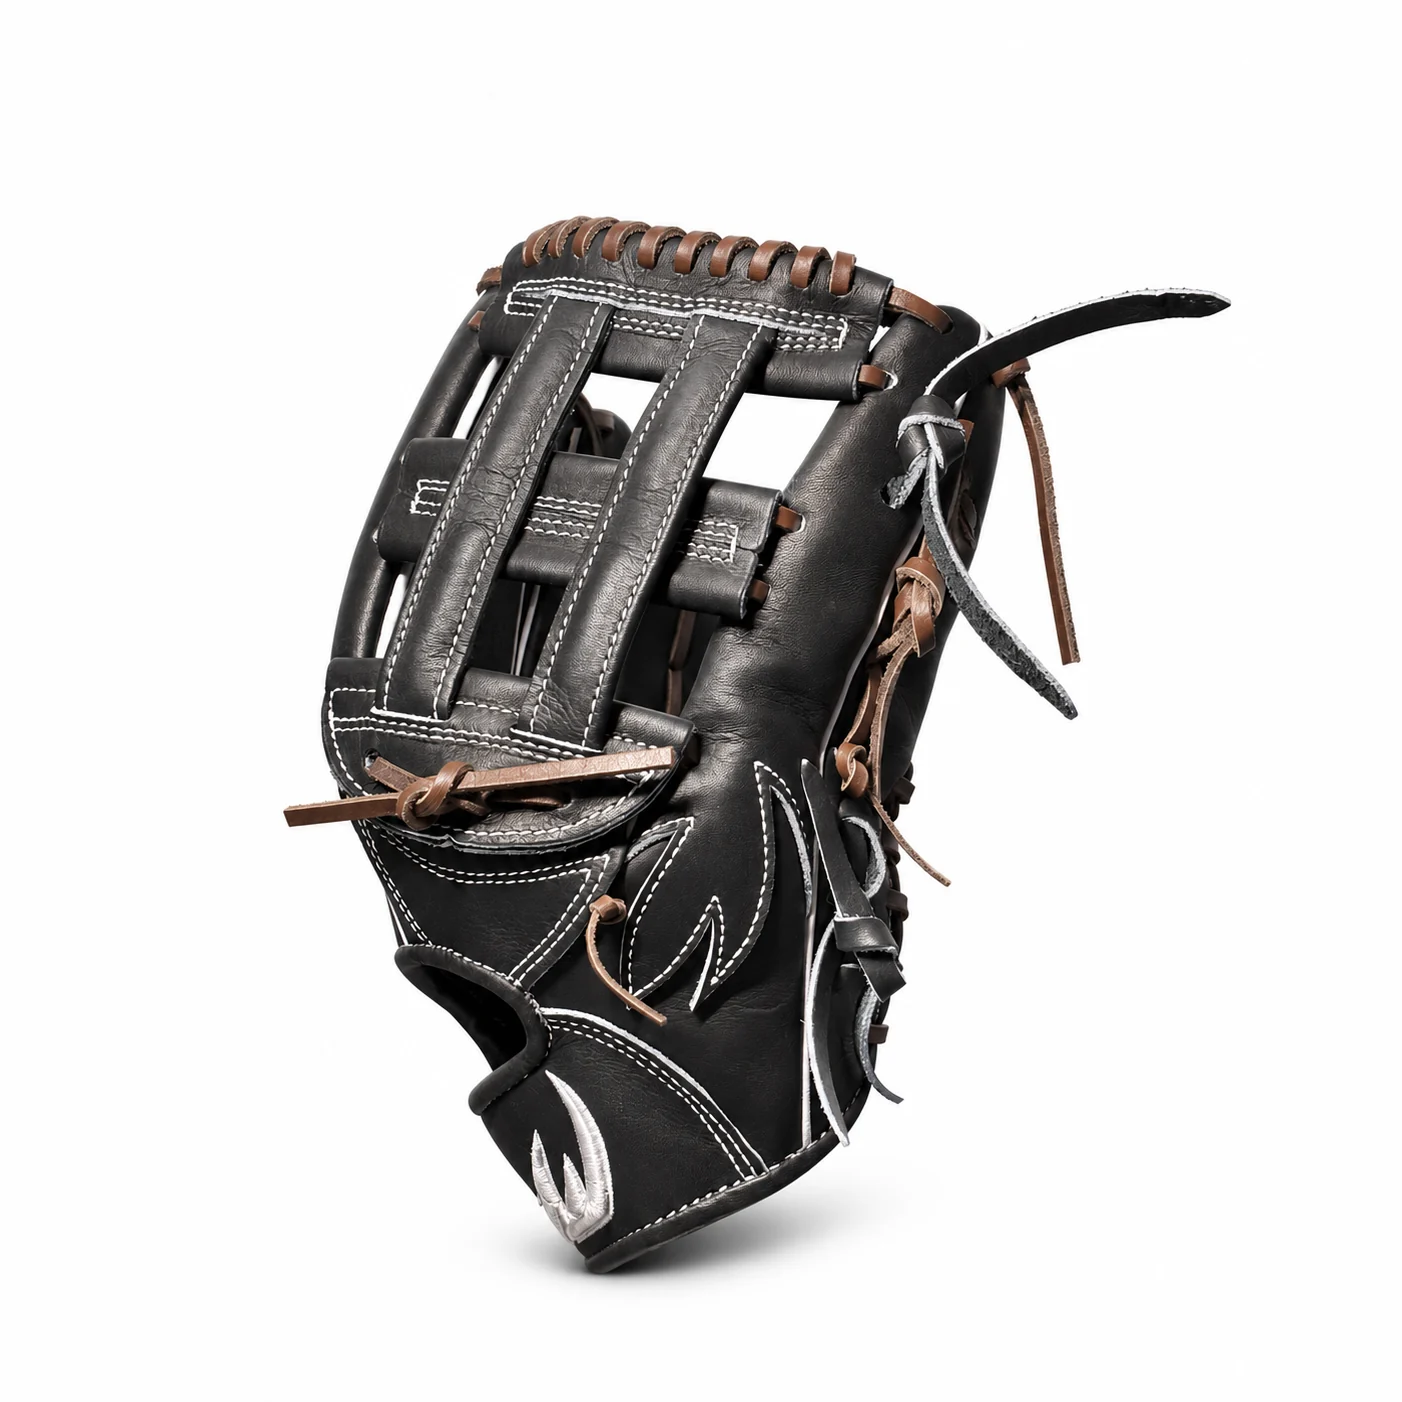
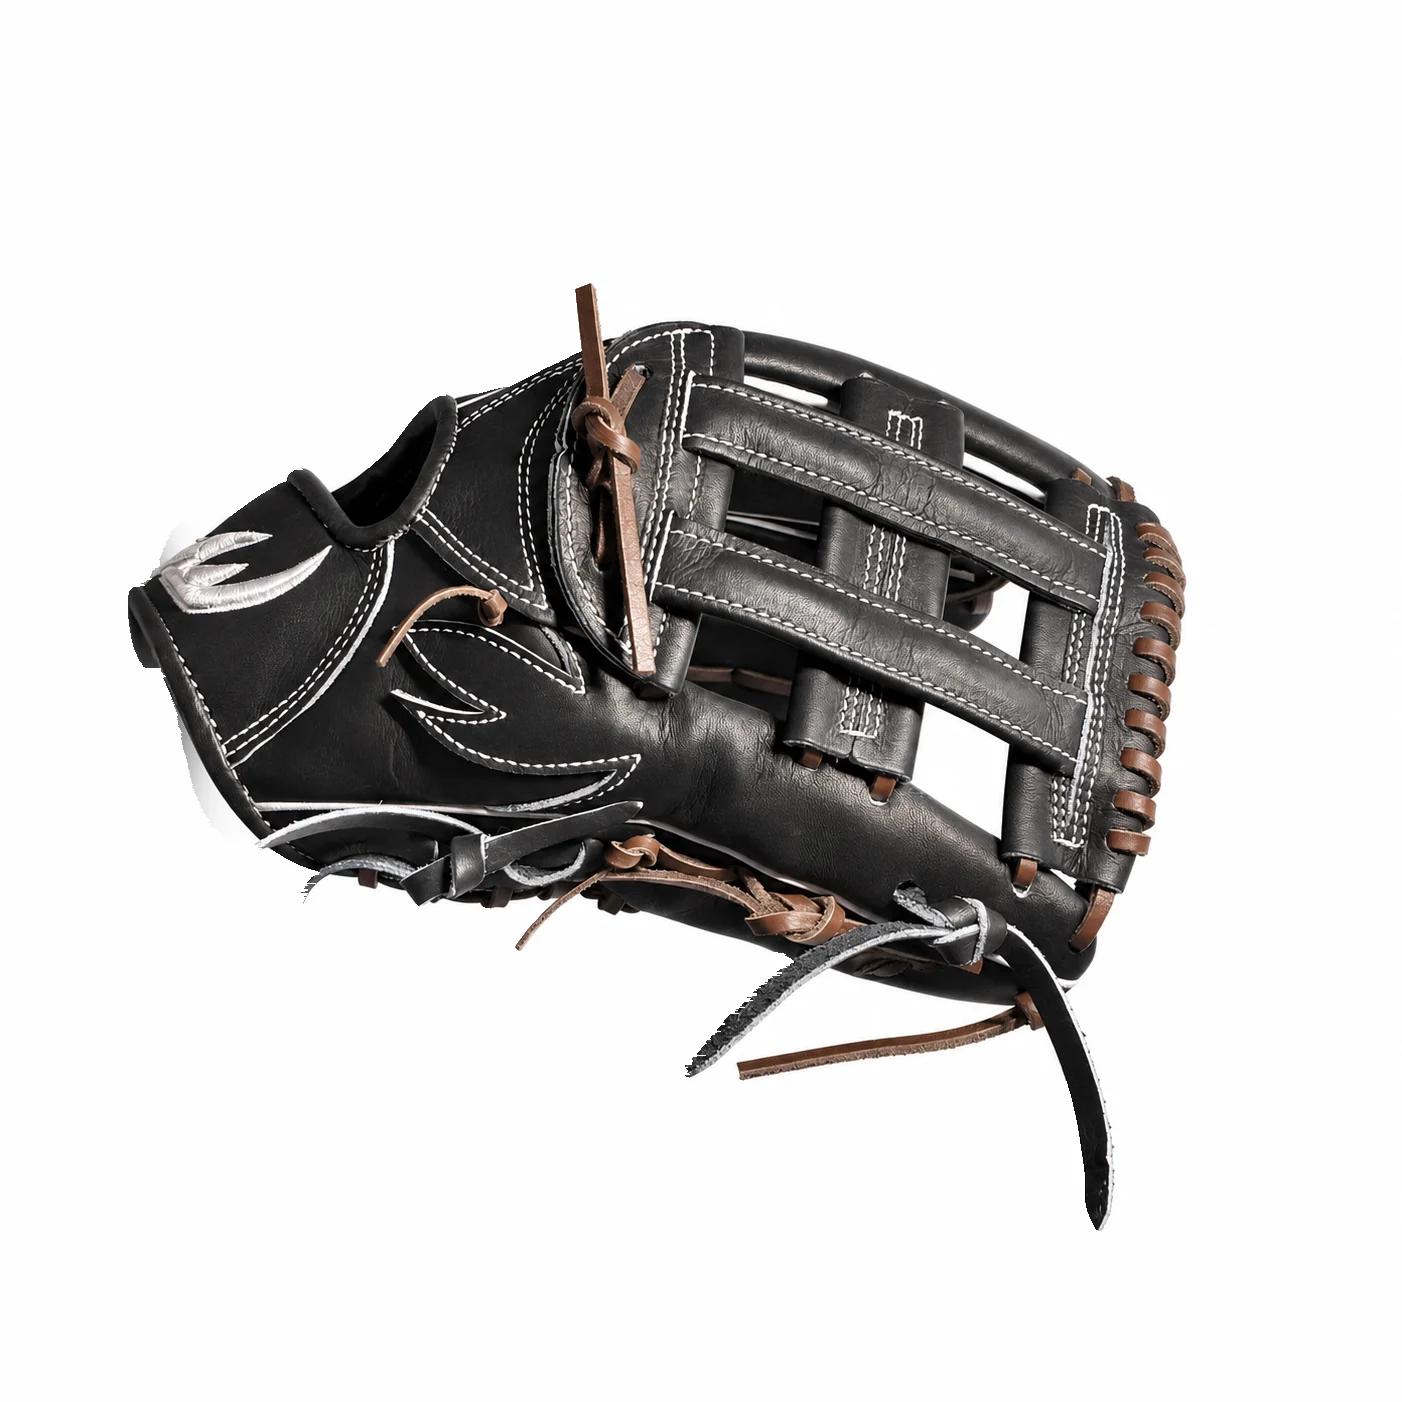
Turn black and orange side photos to lie flat like camel
Rotates both side views 90° clockwise so the wrist is on the left and the
web on the right, and clears the floor shadow that would otherwise sit on
the left edge. The image script can now rebuild selected colors only.

diff --git a/scripts/prepare-full-size-images.py b/scripts/prepare-full-size-images.py
@@ -1,4 +1,4 @@
-"""Build web images for the full-size gloves: python3 scripts/prepare-full-size-images.py
+"""Build web images for the full-size gloves: python3 scripts/prepare-full-size-images.py [color ...]
 
 Reads the source photos in images/<folder>/ and writes square, background-padded
 WebP sizes plus a JPEG fallback to public/images/full-size/. Requires Pillow and cwebp.
@@ -6,6 +6,7 @@ Nothing is enlarged; each photo keeps its full frame.
 """
 from pathlib import Path
 import subprocess
+import sys
 import tempfile
 from PIL import Image, ImageOps
 
@@ -17,8 +18,37 @@ MODELS = [('mint', 'mint_glove'), ('black', 'black_glove'), ('camel', 'camel'), 
 ANGLES = ['back', 'palm', 'side', 'finger_side']
 # Rows to trim from the top of a source photo (removes a stray screenshot strip).
 TOP_TRIM = {('orange', 'back'): 8, ('orange', 'side'): 3}
+# Turn upright side photos clockwise so they lie flat like the camel side view.
+# Value: darkest gray that still counts as shadow (black leather is darker than 60;
+# orange leather is colored, so its darker contact shadow can be cleared too).
+ROTATE_CLOCKWISE = {('black', 'side'): 60, ('orange', 'side'): 15}
+
+def clear_floor_shadow(image, darkest_shadow=60):
+    """Whiten the soft gray floor shadow under an upright glove, before it is rotated.
+
+    Each column is scanned upward from the bottom. Shadow is neutral gray that gets
+    steadily darker toward the glove, so the scan stops at the first colored or very
+    dark pixel (leather) or at a sudden brightening (a logo or lace), leaving the
+    glove untouched.
+    """
+    pixels = image.load()
+    for x in range(image.width):
+        darkest = 255
+        for y in range(image.height - 1, -1, -1):
+            r, g, b = pixels[x, y]
+            light = (r + g + b) // 3
+            if max(r, g, b) - min(r, g, b) > 14 or light < darkest_shadow or light > darkest + 20:
+                break
+            darkest = min(darkest, light)
+            pixels[x, y] = (254, 254, 254)
+    return image
+
+
+ONLY = set(sys.argv[1:])  # optional colors to rebuild, e.g. black orange
 
 for color, folder in MODELS:
+    if ONLY and color not in ONLY:
+        continue
     for angle in ANGLES:
         image = ImageOps.exif_transpose(Image.open(ROOT / 'images' / folder / f'{color}_{angle}.png'))
         if image.mode in ('RGBA', 'LA', 'P'):
@@ -30,6 +60,8 @@ for color, folder in MODELS:
         trim = TOP_TRIM.get((color, angle), 0)
         if trim:
             image = image.crop((0, trim, image.width, image.height))
+        if (color, angle) in ROTATE_CLOCKWISE:
+            image = clear_floor_shadow(image, ROTATE_CLOCKWISE[(color, angle)]).transpose(Image.Transpose.ROTATE_270)
         side = max(image.size)
         # Pad with the photo's own background tone so no box edge shows.
         border = [image.getpixel((x, y)) for x in range(image.width) for y in (0, image.height - 1)]
